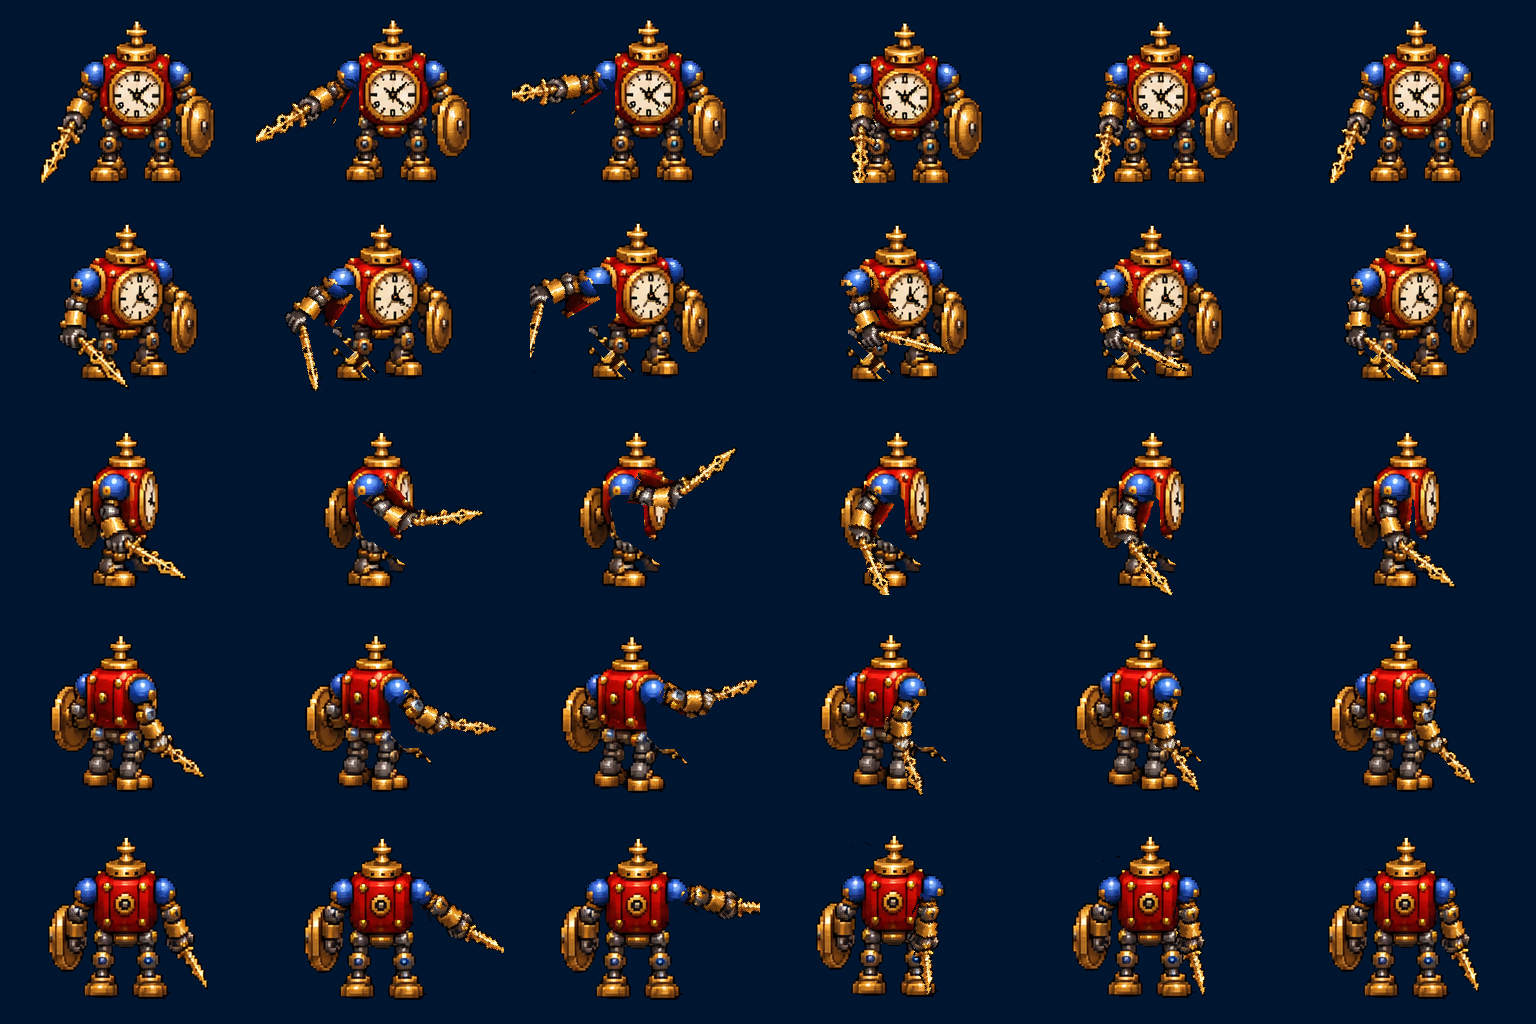
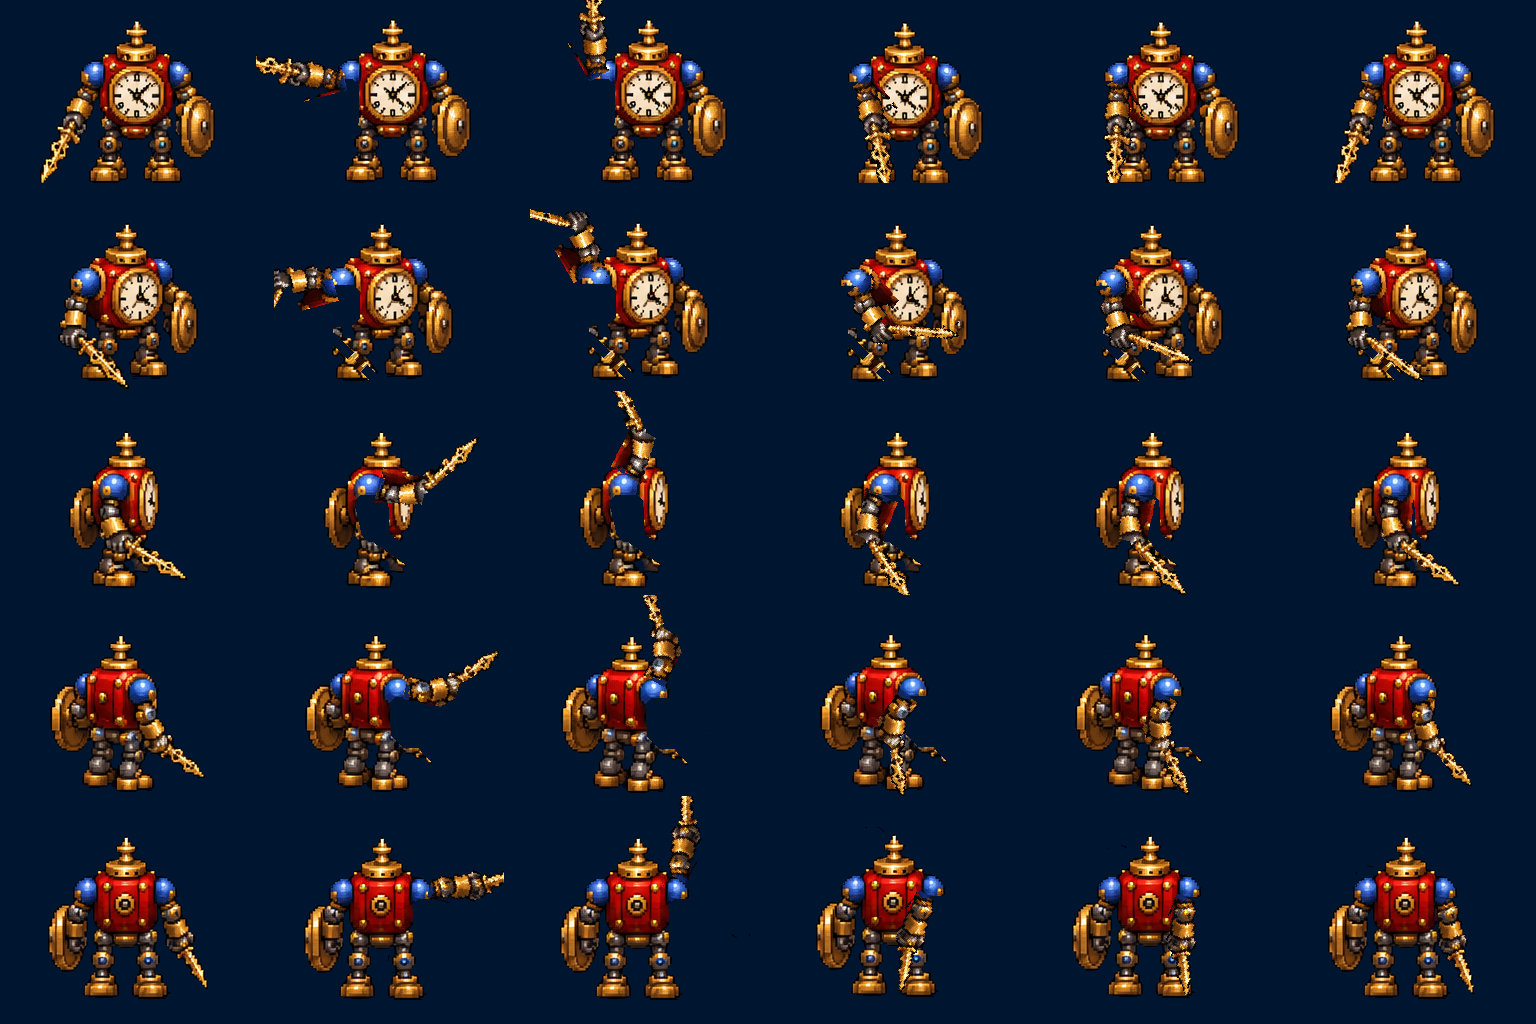
Art: Clock Soldier attack guide, overhead strike
Claude-Session: https://claude.ai/code/session_01NtmEZhP1uA8k4DLQ7BYfMz

diff --git a/tools/soldier_guide/attack.py b/tools/soldier_guide/attack.py
@@ -8,11 +8,11 @@ NAVY=np.array([0,22,48])
 im=np.array(Image.open('art/redraws/clock_soldier_idle.png').convert('RGB')).astype(int)
 BOXES=[(163,28,338,192),(186,222,326,388),(197,409,317,566),(184,599,339,756),(177,791,337,954)]
 # per row: pivot, arm polygon, sword line (x0,y0,x1,y1,w), wind-up angle, strike angle (degrees, PIL: + = counter-clockwise)
-ROW=[((50,58),[(28,60),(62,60),(62,104),(48,104),(48,166),(0,166),(0,92)],None,-55,25),
-     ((26,56),[(0,62),(46,62),(46,100),(30,104),(30,126),(0,126)],(16,110,72,168,9),-60,30),
-     ((45,54),[(30,64),(64,64),(66,110),(40,110)],(54,104,120,150,8),70,-35),
-     ((92,54),[(84,62),(116,62),(126,96),(122,112),(98,112),(86,100)],(114,102,154,146,8),60,-30),
-     ((115,52),[(108,62),(140,62),(147,110),(118,113),(110,95)],(130,104,162,155,8),55,-25)]
+ROW=[((50,58),[(28,60),(62,60),(62,104),(48,104),(48,166),(0,166),(0,92)],None,-150,40),
+     ((26,56),[(0,62),(46,62),(46,100),(30,104),(30,126),(0,126)],(16,110,72,168,9),-150,40),
+     ((45,54),[(30,64),(64,64),(66,110),(40,110)],(54,104,120,150,8),150,-25),
+     ((92,54),[(84,62),(116,62),(126,96),(122,112),(98,112),(86,100)],(114,102,154,146,8),150,-40),
+     ((115,52),[(108,62),(140,62),(147,110),(118,113),(110,95)],(130,104,162,155,8),150,-40)]
 LEAN=[(0,2),(2,1),(3,0),(2,-1),(0,-2)]
 def poly_mask(shape,pts):
     m=Image.new('L',(shape[1],shape[0]),0); ImageDraw.Draw(m).polygon(pts,fill=255); return np.array(m)>0
@@ -49,7 +49,7 @@ def frames_row(r):
     restm=rest|hole
     rgba=np.zeros(Fp.shape[:2]+(4,),np.uint8); rgba[...,:3]=Fp; rgba[...,3]=arm*255
     ARM=Image.fromarray(rgba,'RGBA'); P=(piv[0]+PAD,piv[1]+PAD)
-    seq=[0,0.55*wa,wa,sa,0.6*sa,0.2*sa]
+    seq=[0,0.5*wa,wa,sa,0.6*sa,0.2*sa]
     lean=[0,-0.4,-0.6,1.0,0.7,0.2]
     out=[]
     for a,l in zip(seq,lean):
